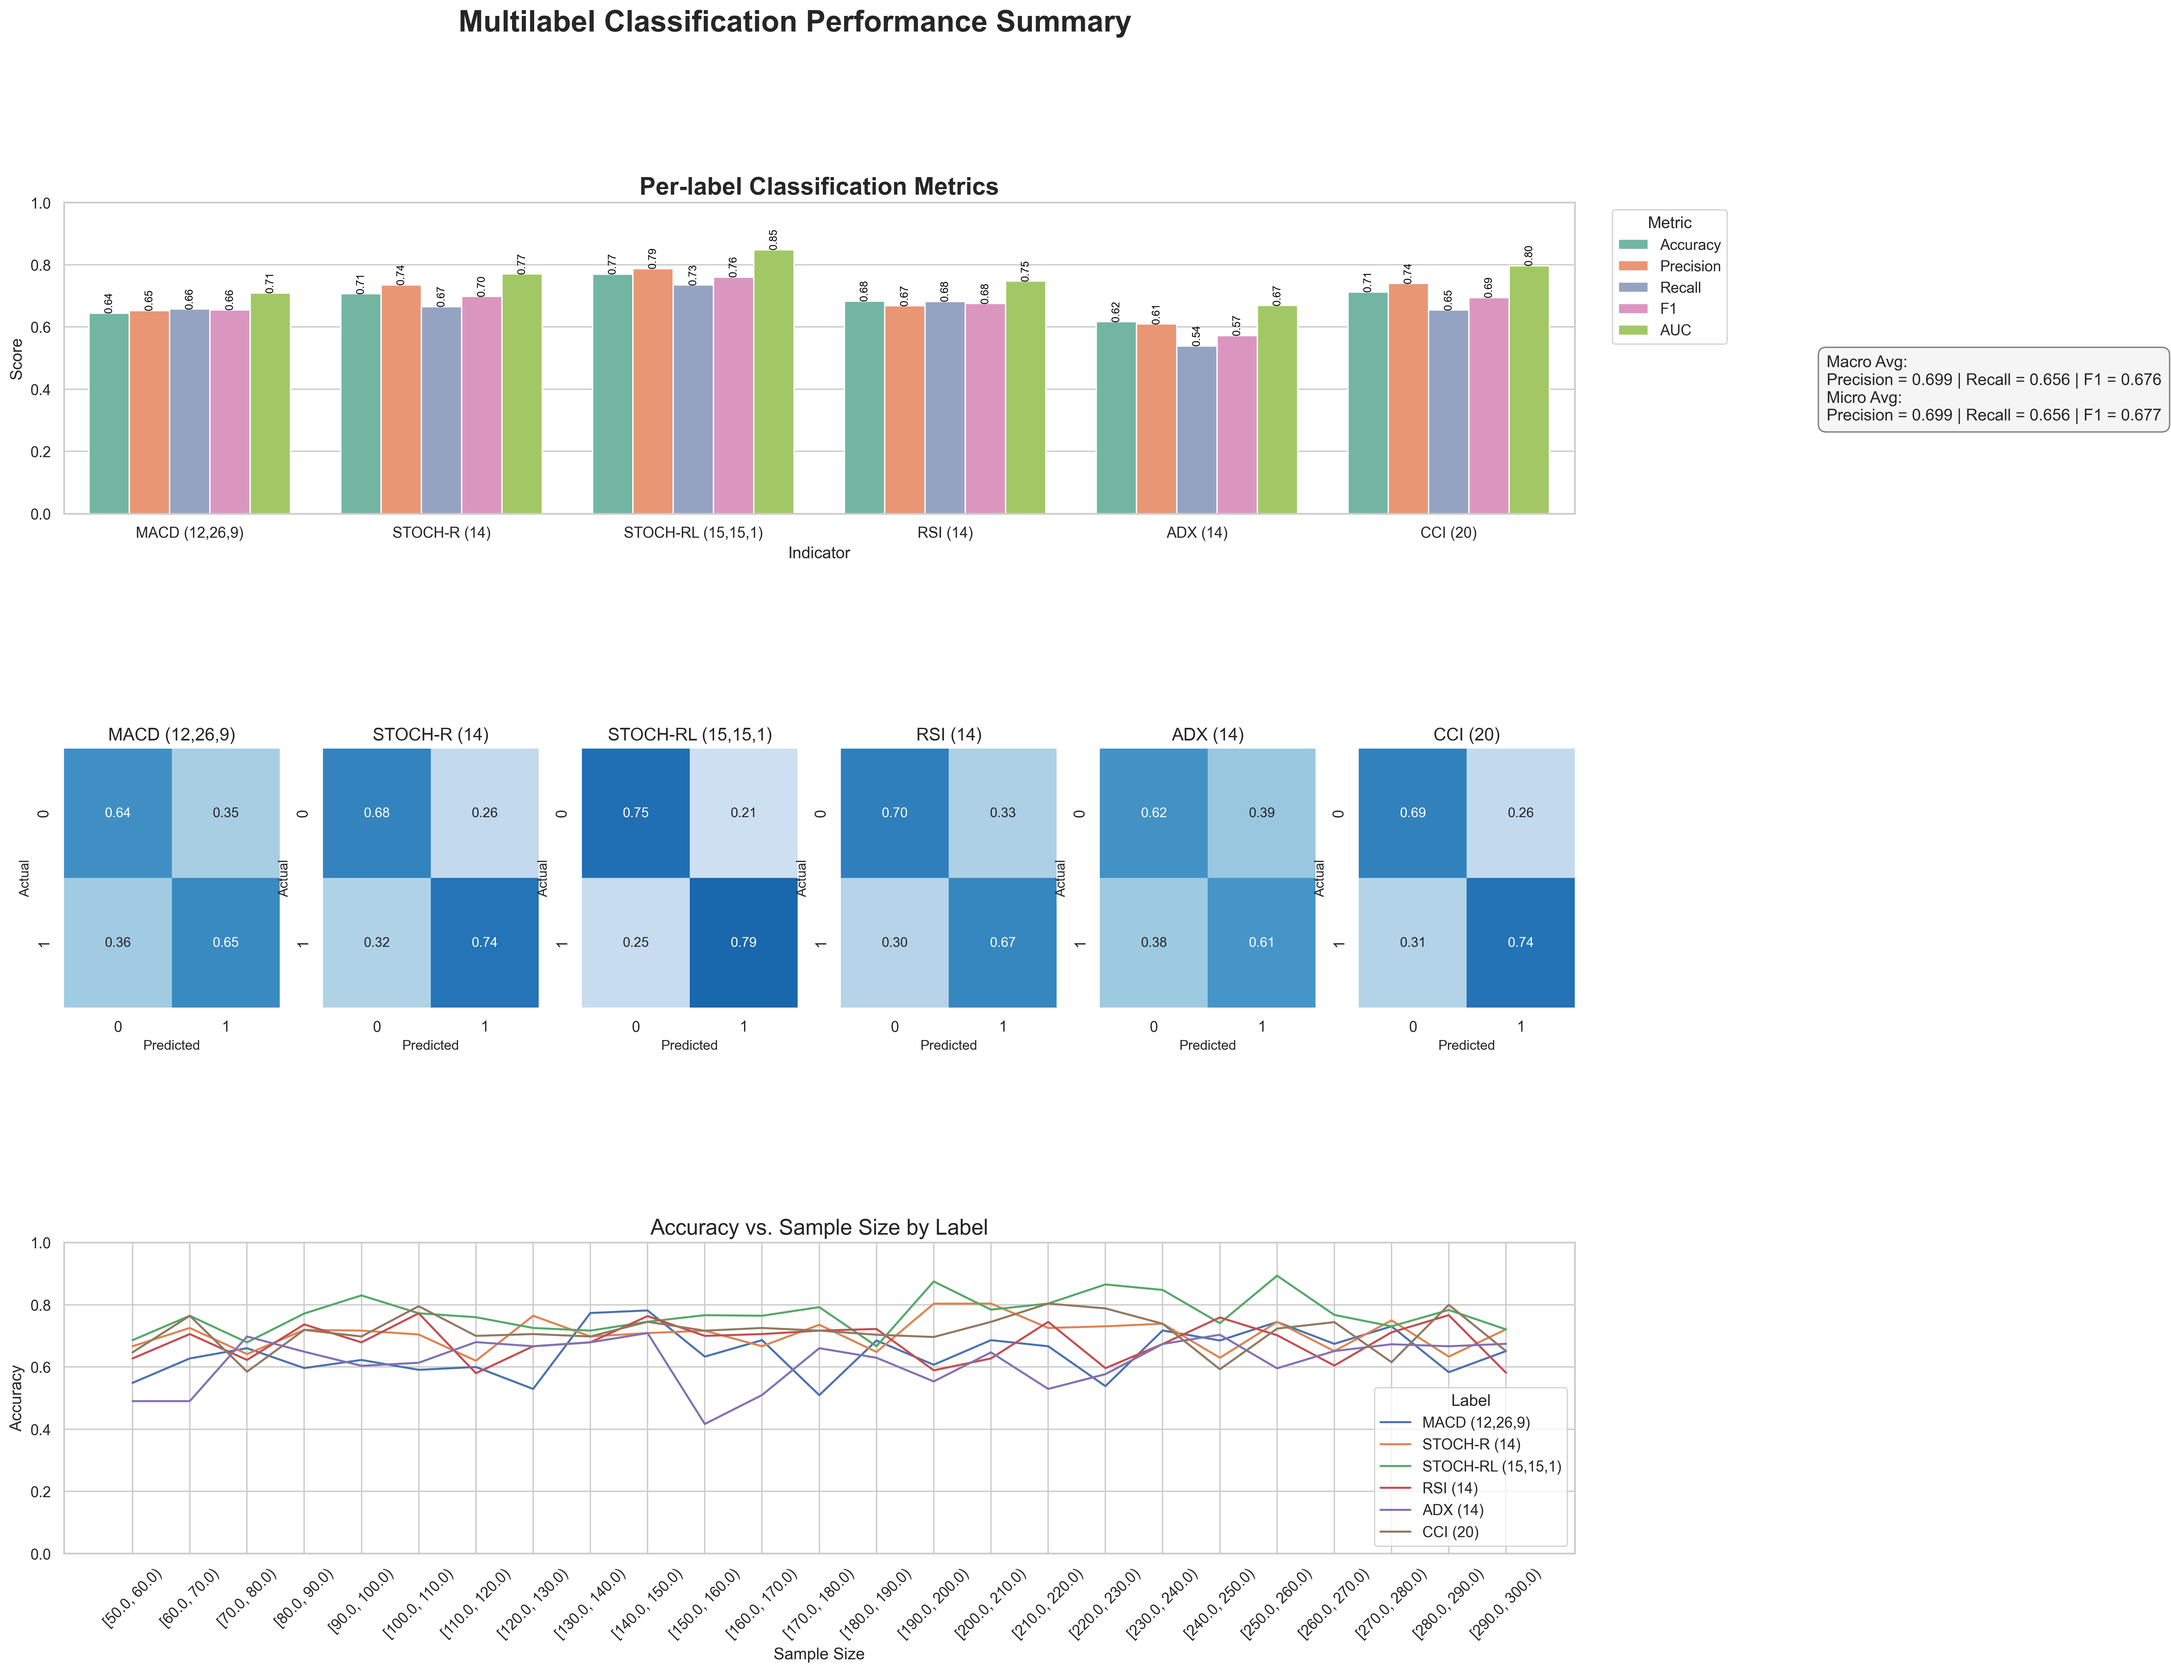
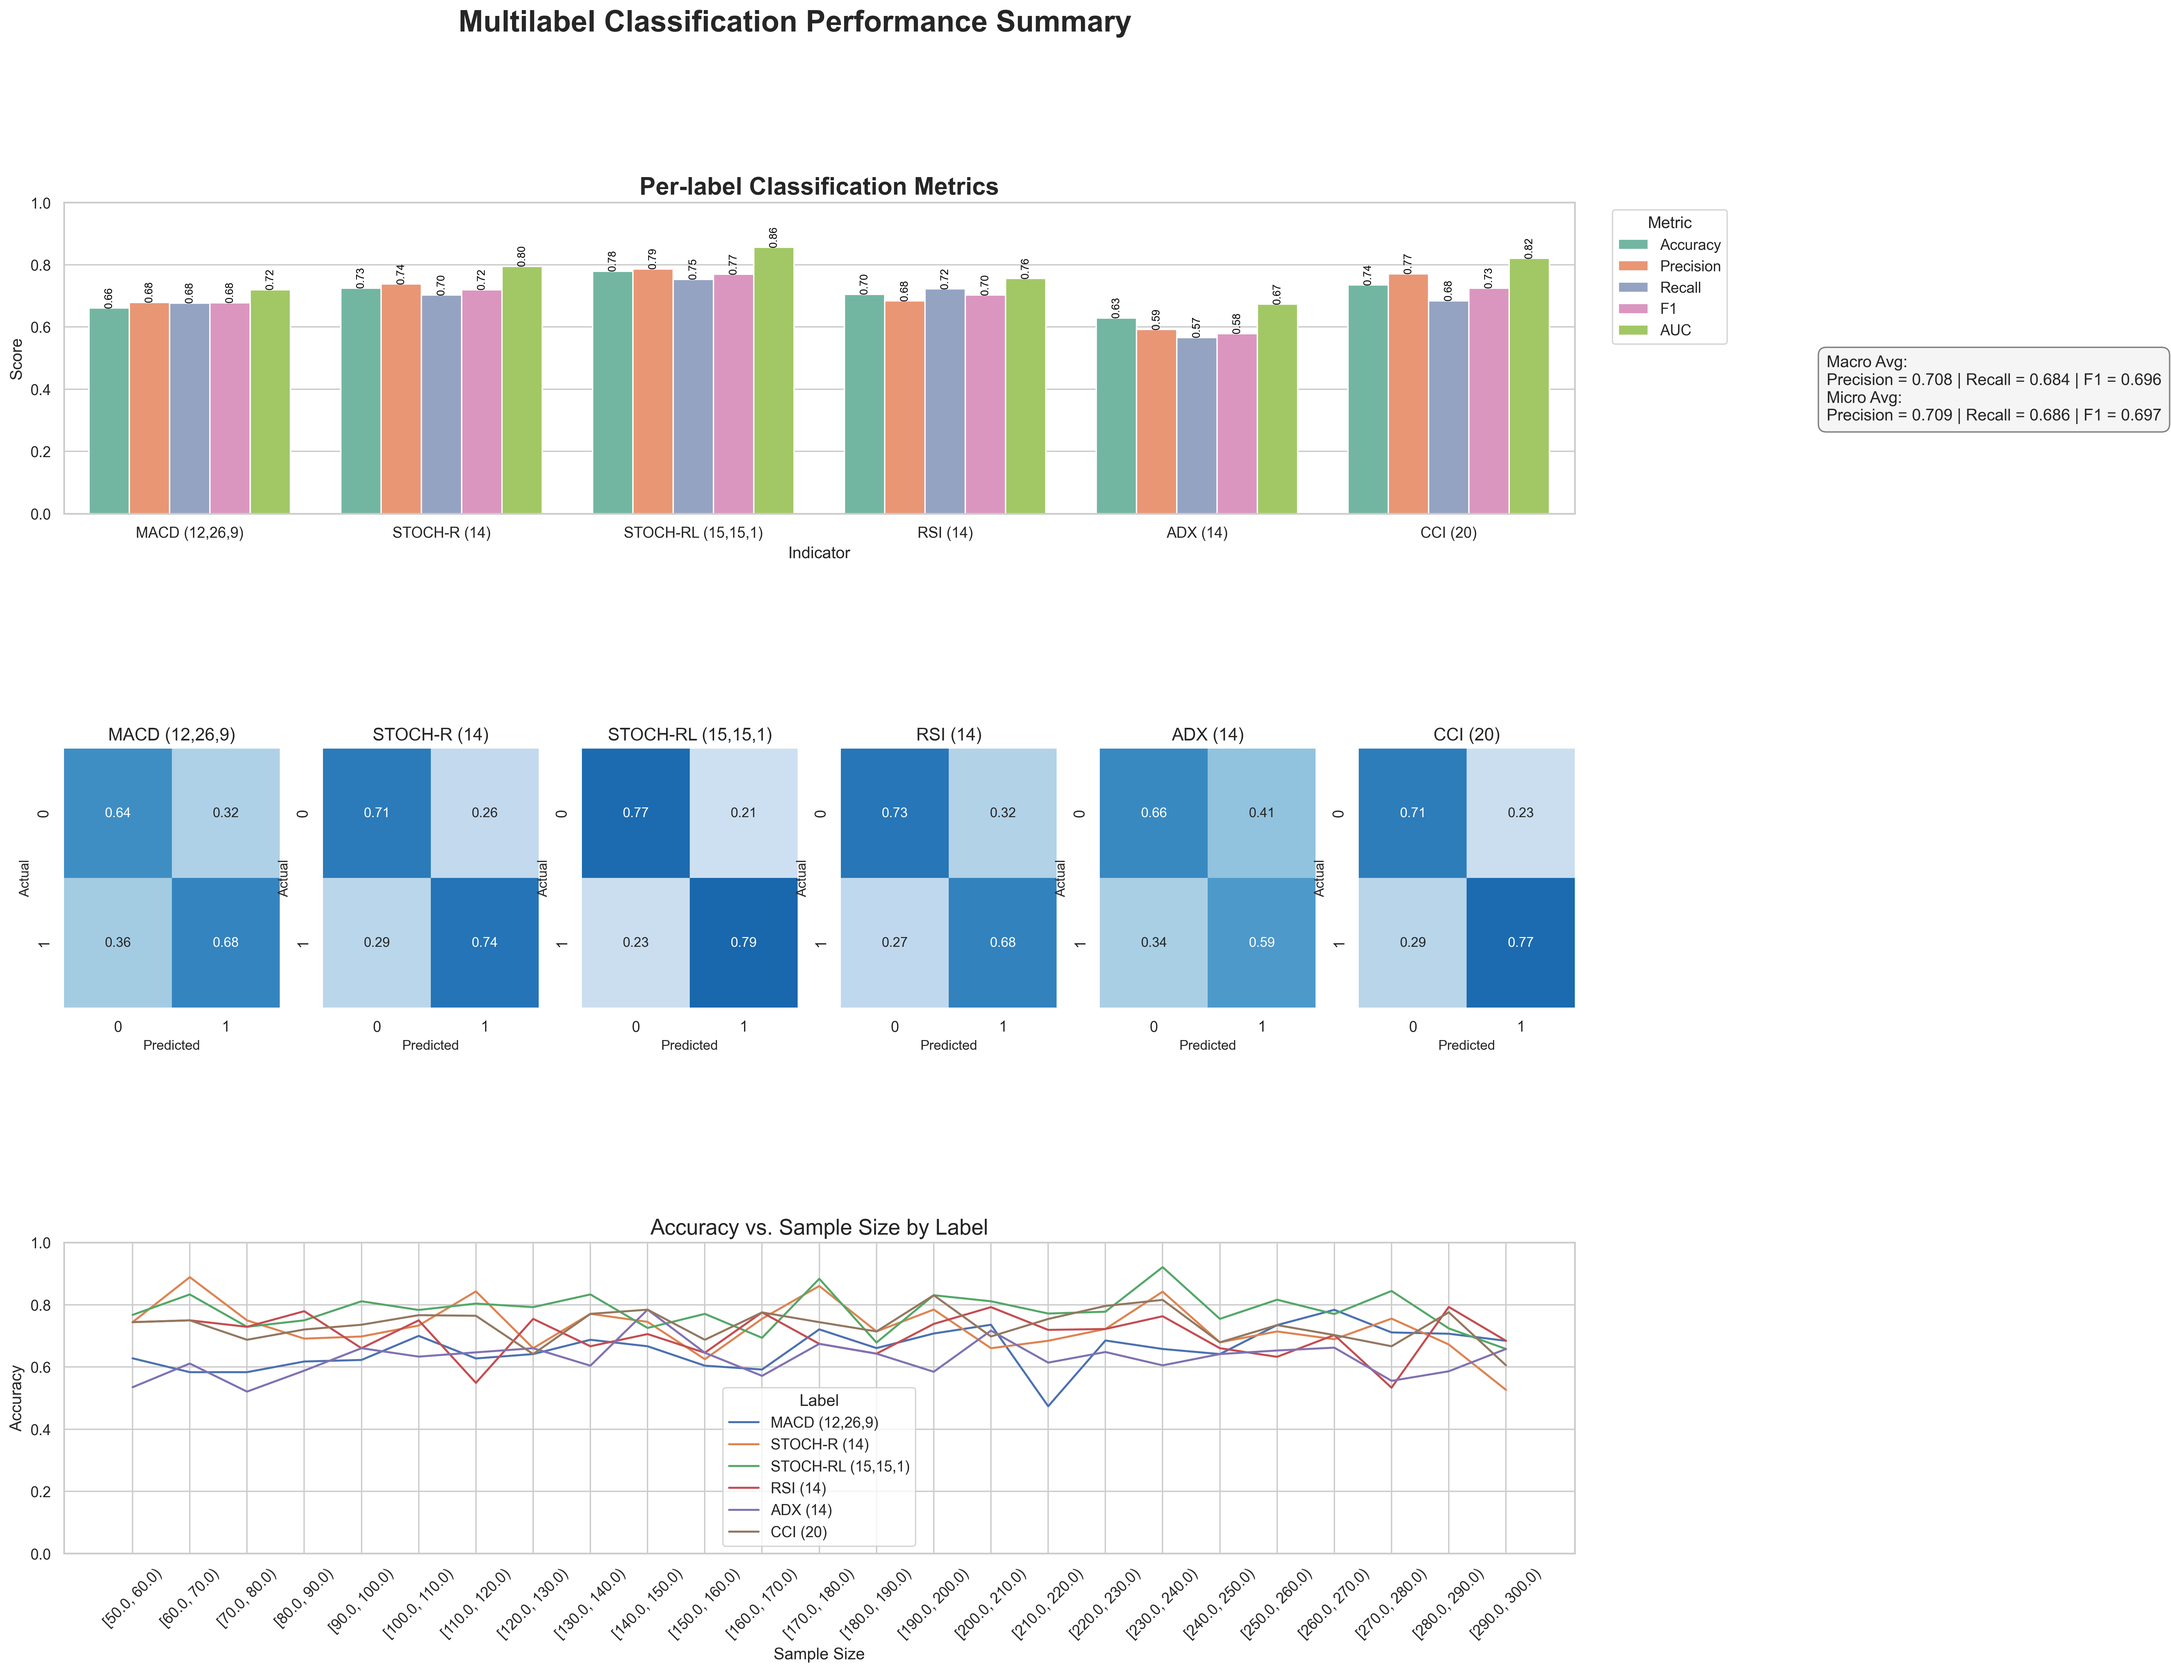
Updated VIT loading

diff --git a/data_processing/create_training_data.py b/data_processing/create_training_data.py
@@ -15,6 +15,8 @@ import pandas as pd
 import numpy as np
 from sklearn.preprocessing import MinMaxScaler
 from data_processing.preprocessing import ECDFScaler
+from dotenv import load_dotenv
+
 
 def plot_rgb(data, names, pixel_size=256, dpi=100, scaler = None):
     """
@@ -184,28 +186,35 @@ def create_graphs(file_path, base_folder, sheets, nb_graphs_per_thousand = 300, 
             fig = plot_rgb(serie_crop, [x for x in value_names if x != "Date"], scaler = scaler)            
 
             # Save the figure
-            fig.savefig(base_folder + sheet_name + '_' + str(i) + '.png', dpi=100)
+            fig.savefig(os.path.join(base_folder, sheet_name + '_' + str(i) + '.png'), dpi=100)
             plt.close(fig)
             # in a xlsx
-            serie.to_csv(base_folder + sheet_name + '_' + str(i) + '.csv', index=False)
+            serie.to_csv(os.path.join(base_folder, sheet_name + '_' + str(i) + '.csv'), index=False)
 
 # Main
 if __name__ == "__main__":
-    file_name = "Base_Test_2500pts v-Louis.xlsx"
+    load_dotenv ()
+    #file_name = "Base_Test_2500pts v-Louis.xlsx"
 
     # Create graphs for the data in the excel file
-    train_sheets = ['BIIB', 'WMT', 'KO', 'CAT', 'BA', 'MMM', 'AAPL']
-    test_sheets = ['HON', 'AMZN', 'NVDA', 'BAC', 'JPM', 'XOM', 'TSLA', 'NKE']
+    #train_sheets = ['BIIB', 'WMT', 'KO', 'CAT', 'BA', 'MMM', 'AAPL']
+    #test_sheets = ['HON', 'AMZN', 'NVDA', 'BAC', 'JPM', 'XOM', 'TSLA', 'NKE']
 
 
-    #file_name = "Base_Test_2500pts avec Synthétiques.xlsx"
-    #train_synth_sheets = ['EURUSDm1', 'EURUSDm5_p1', 'EURUSDh1_p1', 'CAC-40h4_p1', 'CAC-40d1_p1', 'Ss1', 'Ss2', 'Ss3']
-    #test_synth_sheets = ['EURUSDm5_p2','EURUSDh1_p2', 'CAC-40h4_p2', 'CAC-40d1_p2', 'Ss4', 'Ss5']
+    file_name = "Base_Test_2500pts avec Synthétiques.xlsx"
+    train_synth_sheets = ['EURUSDm1', 'EURUSDm5_p1', 'EURUSDh1_p1', 'CAC-40h4_p1', 'CAC-40d1_p1', 'Ss1', 'Ss2', 'Ss3']
+    test_synth_sheets = ['EURUSDm5_p2','EURUSDh1_p2', 'CAC-40h4_p2', 'CAC-40d1_p2', 'Ss4', 'Ss5']
 
     indics = ['MACD (12,26,9)', 'STOCH-R (14)', 'STOCH-RL (15,15,1)', 'RSI (14)', 'ADX (14)', 'CCI (20)']
 
-    scaler = ECDFScaler()
-    scaler.fit_excel_sheets( file_name,sheet_names= train_sheets, names = indics)
+    SCALER_DIR = os.getenv('SCALER_DIR')
     
-    create_graphs(file_name, 'data_scaled/', train_sheets, replace = True, indics = indics, scaler=scaler)
-    create_graphs(file_name, 'test_scaled/', test_sheets, replace = True, test = True, indics = indics, scaler=scaler)
+    scaler = ECDFScaler.load(os.path.join("ecdf_scaler_synth.pkl"))
+
+    DATA_DIR = os.getenv('DATA_DIR')
+
+    TRAIN_DIR = os.path.join(DATA_DIR, "train_synth_scaled")
+    TEST_DIR = os.path.join(DATA_DIR, "test_synth_scaled")
+    
+    create_graphs(file_name, TRAIN_DIR, train_synth_sheets, replace = True, indics = indics, scaler=scaler)
+    create_graphs(file_name, TEST_DIR, test_synth_sheets, replace = True, test = True, indics = indics, scaler=scaler)

diff --git a/models_architectures/vit.py b/models_architectures/vit.py
@@ -199,9 +199,54 @@ class ViTMultiLabelClassifierModel(torch.nn.Module):
       logits = self.logits_layer(x)
       return logits #self.sigmoid(logits)  # Raw logits for BCEWithLogitsLoss
 
+def infer_vit_config(state_dict):
+    config = {}
+    
+    # Position embedding: [num_patches, embed_dim]
+    pos_emb_shape = state_dict["patch_embedding_layer.position_emb.weight"].shape
+    config["num_patches"] = pos_emb_shape[0] - 1
+    config["embed_dim"] = pos_emb_shape[1]
+
+    # Feedforward dim from FFN layer
+    config["feed_forward_dim"] = state_dict["transformer_layers.0.ffn.0.0.weight"].shape[0]
+
+    # Infer number of transformer layers
+    config["num_transformer_layers"] = len({
+        k.split('.')[1]
+        for k in state_dict
+        if k.startswith("transformer_layers.")
+    })
+
+    # Optional: you may try to infer num_heads if possible (harder reliably)
+    config["num_heads"] = 4  # fallback default or custom logic if known
+
+    return config
+
+
 DEVICE = torch.device("cuda" if torch.cuda.is_available() else "cpu")
 
-def load_model_VIT (path, 
+
+def load_model_VIT(path, device=DEVICE):
+    state_dict = torch.load(path, map_location=device)
+
+    config = infer_vit_config(state_dict)
+
+    # Fixed values or inferred if you can later
+    config["patch_size"] = 6
+    config["mlp_head_units"] = [2048, 1024]
+    config["num_classes"] = 6
+    config["device"] = device
+
+    # Instantiate model
+    model = ViTMultiLabelClassifierModel(**config).to(device)
+
+    # Load state dict
+    model = load_model_safely(model, state_dict)
+    model.eval()
+    return model
+
+
+'''def load_model_VIT (path, 
               device = DEVICE,
               num_transformer_layers=8,
               embed_dim=64,
@@ -215,7 +260,7 @@ def load_model_VIT (path,
     model = ViTMultiLabelClassifierModel(
         num_transformer_layers=num_transformer_layers,
         embed_dim=embed_dim,
-        feed_forward_dim=feed_forward_dim * 2,
+        feed_forward_dim=feed_forward_dim,
         num_heads=num_heads,
         patch_size=patch_size,
         num_patches=num_patches,
@@ -227,7 +272,7 @@ def load_model_VIT (path,
     state_dict  = torch.load(path, map_location=DEVICE)
     model = load_model_safely(model, state_dict)
     model.eval()
-    return model
+    return model'''
 
 
 if __name__ == '__main__' :
@@ -238,7 +283,7 @@ if __name__ == '__main__' :
 
     DATA_DIR = os.getenv("DATA_DIR")
 
-    TYPE_OF_DATA = "scaled"
+    TYPE_OF_DATA = "synth_scaled"
     
     if TYPE_OF_DATA == "" :
         str_to_add = ""
@@ -304,6 +349,7 @@ if __name__ == '__main__' :
     )
     loss_function = torch.nn.BCEWithLogitsLoss(pos_weight=pos_weights)
 
+    print(f"Training of {MODEL_PATH}")
     history = train_network(
         model=model,
         num_epochs=NUM_EPOCHS,

diff --git a/model_evaluation/inference_pipeline.py b/model_evaluation/inference_pipeline.py
@@ -89,7 +89,7 @@ def aggregate_by_date_consistent(all_labels, all_preds, all_probs, all_dates, al
     return final_labels, recalculated_preds, averaged_probs, final_dates, final_lens, final_sheets
 
 
-def inference_pipeline(model, n_avg = 1,  symbol = "AAPL", interval = '30min', indics = ['macd', 'stochRf', 'stochRL', 'rsi', 'adx', 'cci'], scaler = None, APIKEY='xQZFfDNtJjyxghjNX7YPW4VaZO1WzTif', temp_folder = 'temp_data', clean = True) :
+def inference_pipeline(model, n_avg = 1,  symbol = "AAPL", interval = '30min',img_size = 256 , indics = ['macd', 'stochRf', 'stochRL', 'rsi', 'adx', 'cci'], scaler = None, APIKEY='xQZFfDNtJjyxghjNX7YPW4VaZO1WzTif', temp_folder = 'temp_data', clean = True) :
     
     if clean :
         for filename in os.listdir(temp_folder):
@@ -129,7 +129,7 @@ def inference_pipeline(model, n_avg = 1,  symbol = "AAPL", interval = '30min', i
         img.savefig(img_path, dpi=100)
         plt.close(img)
         
-    loader, _  = get_dataloader(temp_folder, batch_size = 1)
+    loader, _  = get_dataloader(temp_folder, batch_size = 1, img_size= img_size)
 
     all_labels, all_preds, all_probs, all_dates, all_lens, all_sheet = inference(model, loader)
 
@@ -176,7 +176,7 @@ if __name__ == '__main__' :
     scaler = ECDFScaler.load(os.path.join("ecdf_scaler.pkl"))
 
     MODEL_DIR = os.getenv('MODEL_DIR')
-    MODEL_FILE = 'resnet_18_256_scaled_final.pth' #'VIT.pth'
+    MODEL_FILE = 'VIT_128_scaled_final.pth'#'resnet_18_256_scaled_final.pth' #'VIT.pth'
     MODEL_PATH = os.path.join(MODEL_DIR, MODEL_FILE)
 
 
@@ -184,4 +184,4 @@ if __name__ == '__main__' :
 
     model = load_model_general(MODEL_PATH) # model = load_model_squeezenet(MODEL_PATH) # model = load_model_VIT(MODEL_PATH)
 
-    print(inference_pipeline(model, n_avg= 5, scaler = scaler))
+    print(inference_pipeline(model, n_avg= 5, scaler = scaler, img_size= 128))

diff --git a/model_evaluation/performance.py b/model_evaluation/performance.py
@@ -284,7 +284,7 @@ if __name__ == "__main__" :
     WEIGHT_DECAY = 0.0001
     BATCH_SIZE = 32
     NUM_EPOCHS = 100
-    IMAGE_SIZE = 256
+    IMAGE_SIZE = 128
     PATCH_SIZE = 6
     NUM_PATCHES = (IMAGE_SIZE // PATCH_SIZE) ** 2
     PROJECTION_DIM = 64
@@ -294,7 +294,7 @@ if __name__ == "__main__" :
 
 
     MODEL_DIR = 'model'
-    MODEL_NAME = 'squeezenet_' + str(IMAGE_SIZE) + str_to_add +  "_final"
+    MODEL_NAME = 'vit_' + str(IMAGE_SIZE) + str_to_add +  "_final"
     MODEL_FILE = MODEL_NAME + '.pth'
     MODEL_PATH = os.path.join(MODEL_DIR, MODEL_FILE)
 
@@ -308,7 +308,7 @@ if __name__ == "__main__" :
 
     
 
-    model = load_model_squeezenet(MODEL_PATH, DEVICE)
+    model = load_model_VIT(MODEL_PATH, DEVICE)
     all_labels, all_preds, all_probs, _, all_lens, _ = inference (model, test_loader, INDICS, DEVICE)
 
     print(all_probs)

diff --git a/data_processing/dataset.py b/data_processing/dataset.py
@@ -254,9 +254,14 @@ def plot_statistical_analysis (data, indics, name="Dataset") :
 
 
 if __name__ == "__main__" :
-    labels_paths = ['labels\\train_scaled_labels.json','labels\\test_scaled_labels.json']
 
-    data_folders = ['data_scaled', 'data_scaled']
+    DATA_DIR = "data"
+
+    LABEL_DIR = "labels"
+
+    labels_paths = [os.path.join(LABEL_DIR,'train_synth_scaled_labels.json'),os.path.join(LABEL_DIR,'test_synth_scaled_labels.json')]
+
+    data_folders = [os.path.join(DATA_DIR,'train_synth_scaled'), os.path.join(DATA_DIR,'test_synth_scaled')]
 
     indics = ['MACD (12,26,9)', 'STOCH-R (14)', 'STOCH-RL (15,15,1)', 'RSI (14)', 'ADX (14)', 'CCI (20)']
 

diff --git a/models_architectures/squeezenet.py b/models_architectures/squeezenet.py
@@ -45,7 +45,7 @@ if __name__ == '__main__' :
 
     DATA_DIR = os.getenv("DATA_DIR")
 
-    TYPE_OF_DATA = "scaled"
+    TYPE_OF_DATA = "synth_scaled"
     
     if TYPE_OF_DATA == "" :
         str_to_add = ""
@@ -55,7 +55,7 @@ if __name__ == '__main__' :
     TRAIN_DIR = os.path.join(DATA_DIR, "train" + str_to_add + "/")
     TEST_DIR = os.path.join(DATA_DIR, "test" + str_to_add + "/")
 
-    LABELS_DIR = "labels"
+    LABELS_DIR = os.getenv("LABELS_DIR")
     TRAIN_LABEL_FILE = "train"+ str_to_add +"_labels.json"
     TEST_LABEL_FILE = "test"+ str_to_add +"_labels.json"
     TRAIN_LABEL_PATH = os.path.join(LABELS_DIR, TRAIN_LABEL_FILE)

diff --git a/data_processing/preprocessing.py b/data_processing/preprocessing.py
@@ -6,7 +6,7 @@ from tqdm import tqdm
 import pickle
 from dotenv import load_dotenv
 import os
-from utils import load_json_list
+from loadenv import load_json_list
 
 class ECDFScaler:
     def __init__(self):
